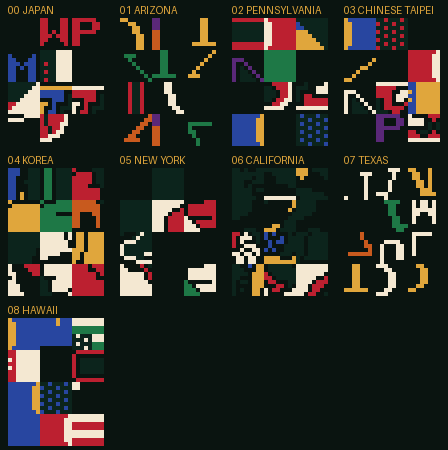
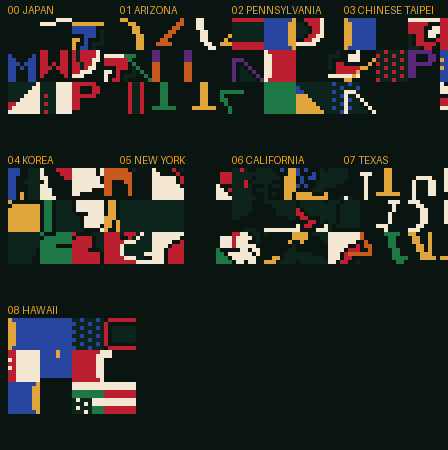
Correct flag block order to 4x3 columns

Changed region(s): [[0.0, 0.3733, 1.0, 0.9956], [0.0, 0.0311, 1.0, 0.3422], [0.4375, 0.3111, 0.4688, 0.3422]]

diff --git a/tools/extract_flags.py b/tools/extract_flags.py
@@ -49,7 +49,7 @@ def main():
         if bank >= 0xFF:
             continue
         o = ids[team]
-        img = Image.new("RGBA", (24, 32), (0, 0, 0, 0))
+        img = Image.new("RGBA", (32, 24), (0, 0, 0, 0))
         px = img.load()
         for s in range(12):
             tile, attr = tab[o + s * 2], tab[o + s * 2 + 1]
@@ -59,7 +59,7 @@ def main():
             off = bank * 0x1000 + tile * 16
             if off + 16 > len(chr_data):
                 continue
-            cx, cy = (s // 4) * 8, (s % 4) * 8
+            cx, cy = (s // 3) * 8, (s % 3) * 8
             for y in range(8):
                 p0, p1 = chr_data[off + y], chr_data[off + 8 + y]
                 for x in range(8):
@@ -67,7 +67,7 @@ def main():
                     v = ((p0 >> bit) & 1) | (((p1 >> bit) & 1) << 1)
                     if v:
                         px[cx + (7 - x if hflip else x), cy + (7 - y if vflip else y)] = pal[v]
-        big = img.resize((96, 128), Image.NEAREST)
+        big = img.resize((128, 96), Image.NEAREST)
         name = teams[team]["name"].split()[0].lower()
         big.save(os.path.join(args.out, f"{team:02d}-{name}.png"))
         tiles.append((team, teams[team]["name"], big))

diff --git a/docs/expanding-teams-and-rosters.md b/docs/expanding-teams-and-rosters.md
@@ -333,9 +333,10 @@ Two limits surfaced:
 
 - Only teams 0–8 have per-team CHR entries; 9–15 are `FF` and need their shared
   bank resolved.
-- The 12 sprites compose correctly but the row/column order is still being
-  refined (both orders produce fragmented art), so these are extracted assets,
-  not yet final flag bitmaps.
+- The draw loop is **4 columns × 3 rows** (X advances inside the inner loop),
+  not 3 × 4; the extractor now uses that order.
+- The blocks contain both flag art and team-label glyphs, so they are extracted
+  assets rather than separated flag bitmaps yet.
 
 ### Next five landmarks
 
